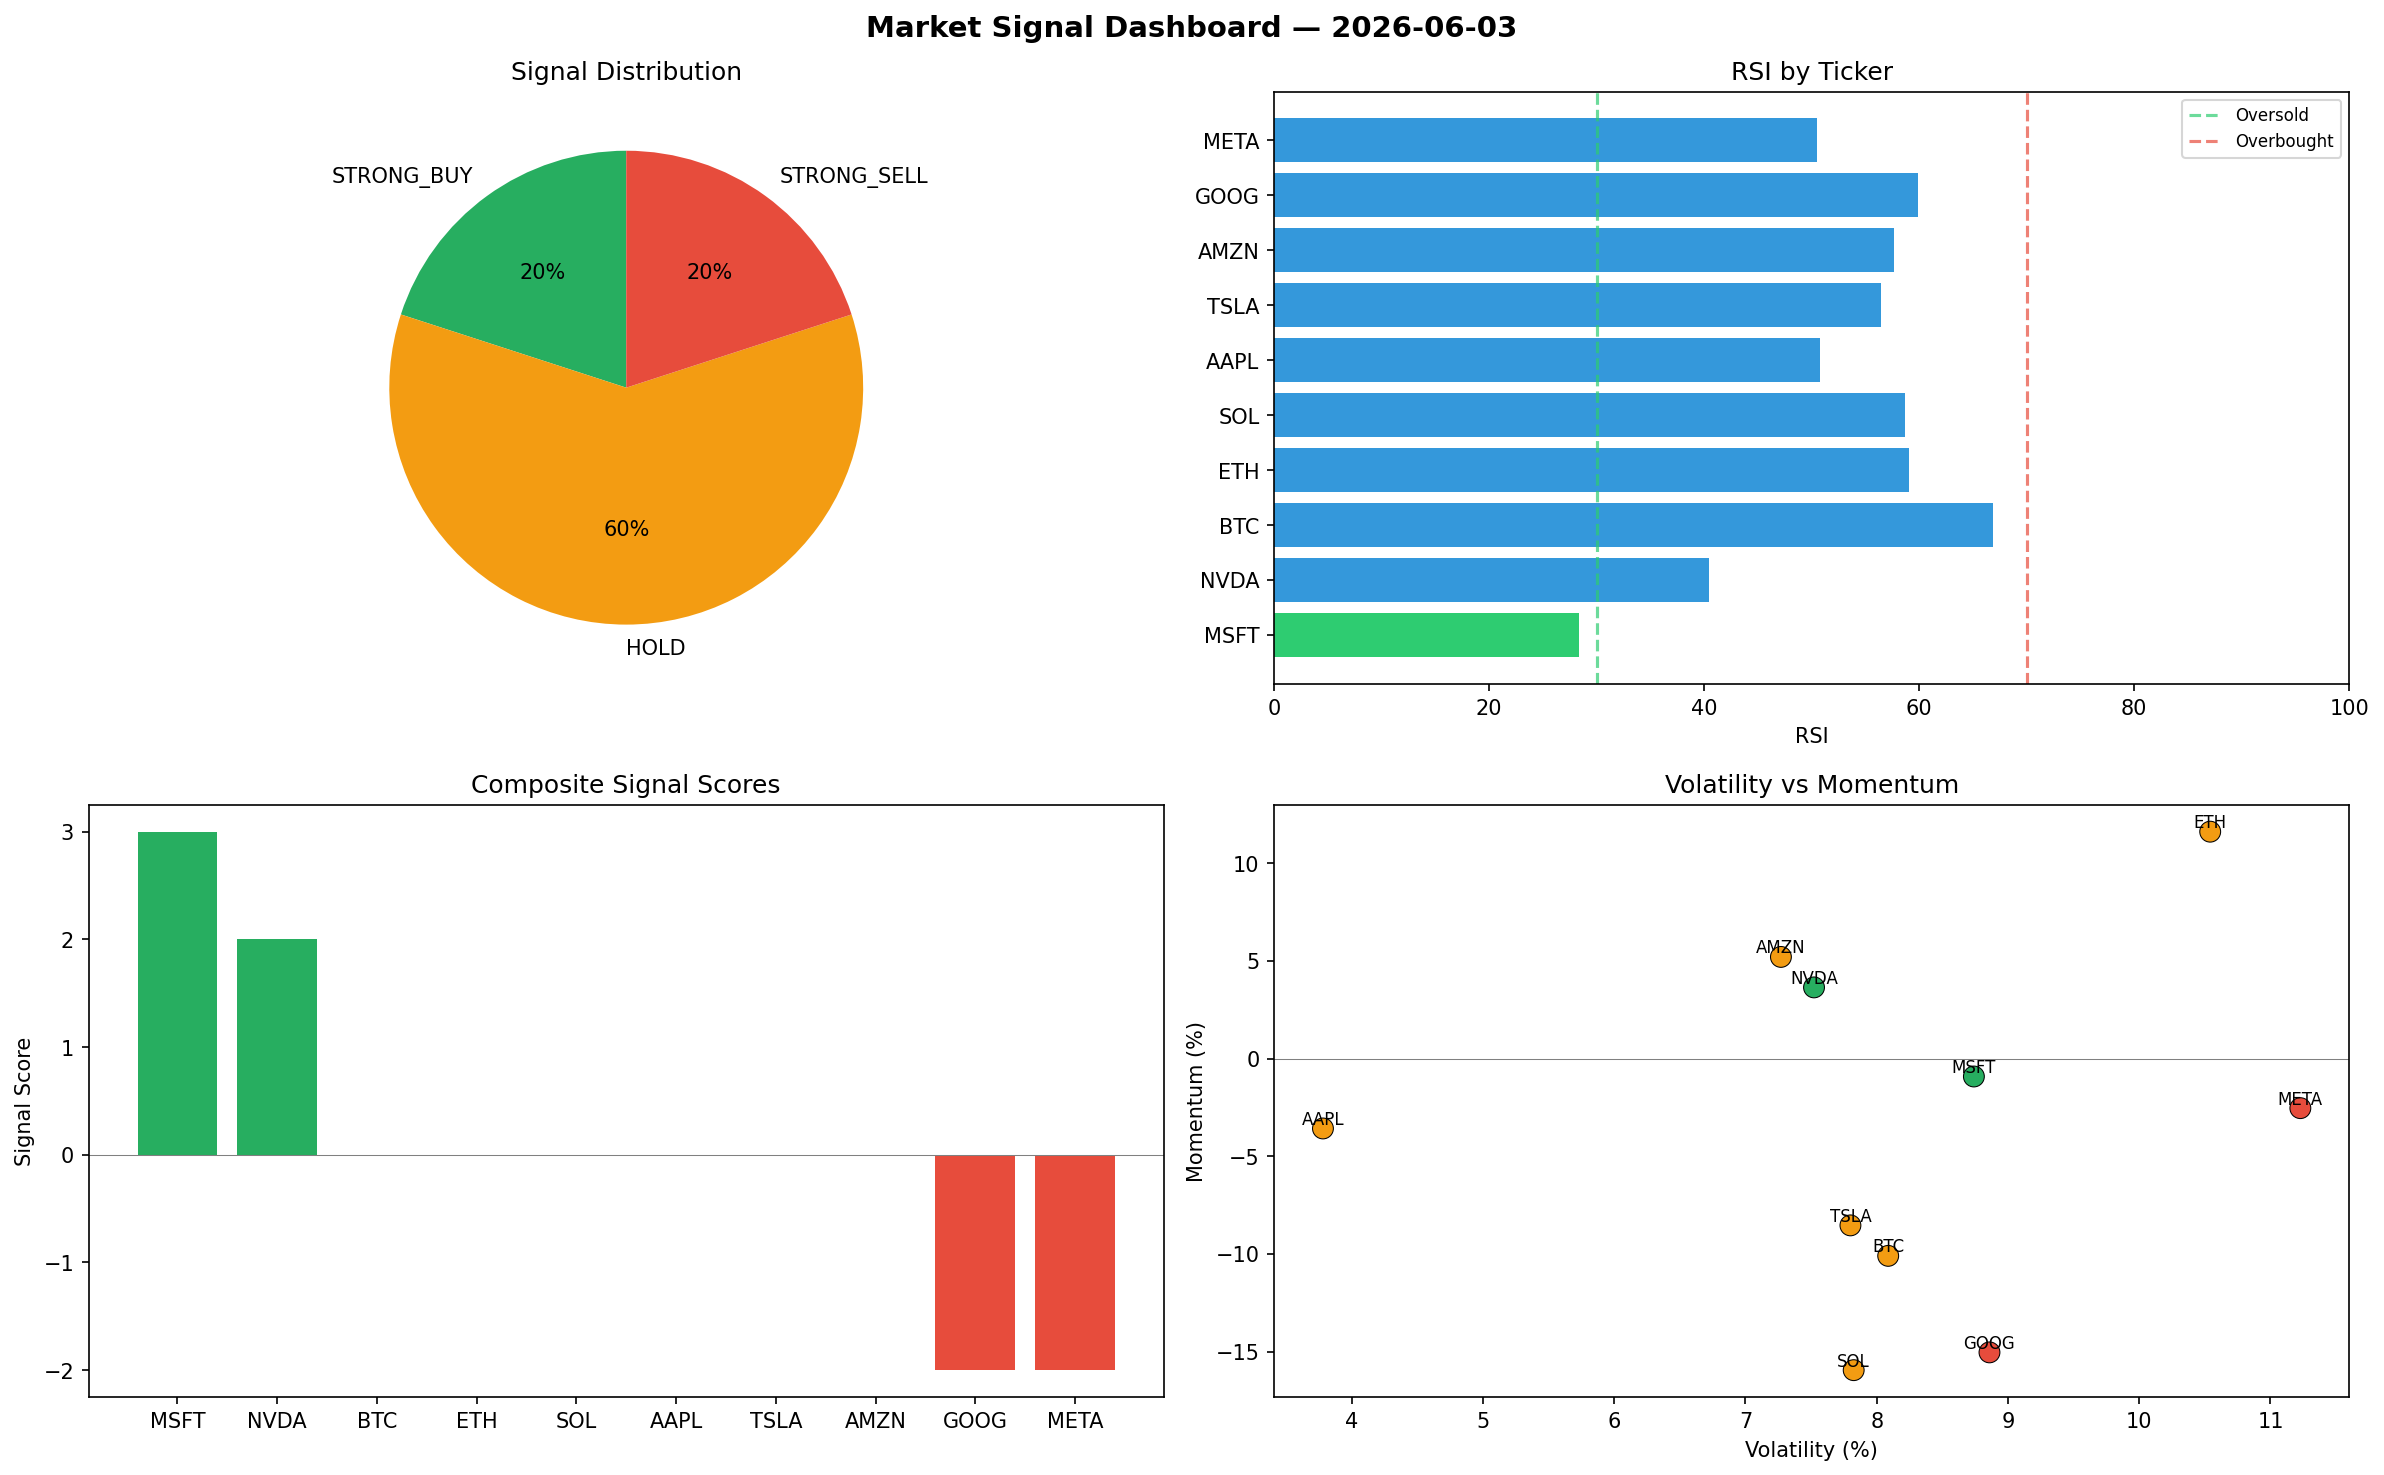
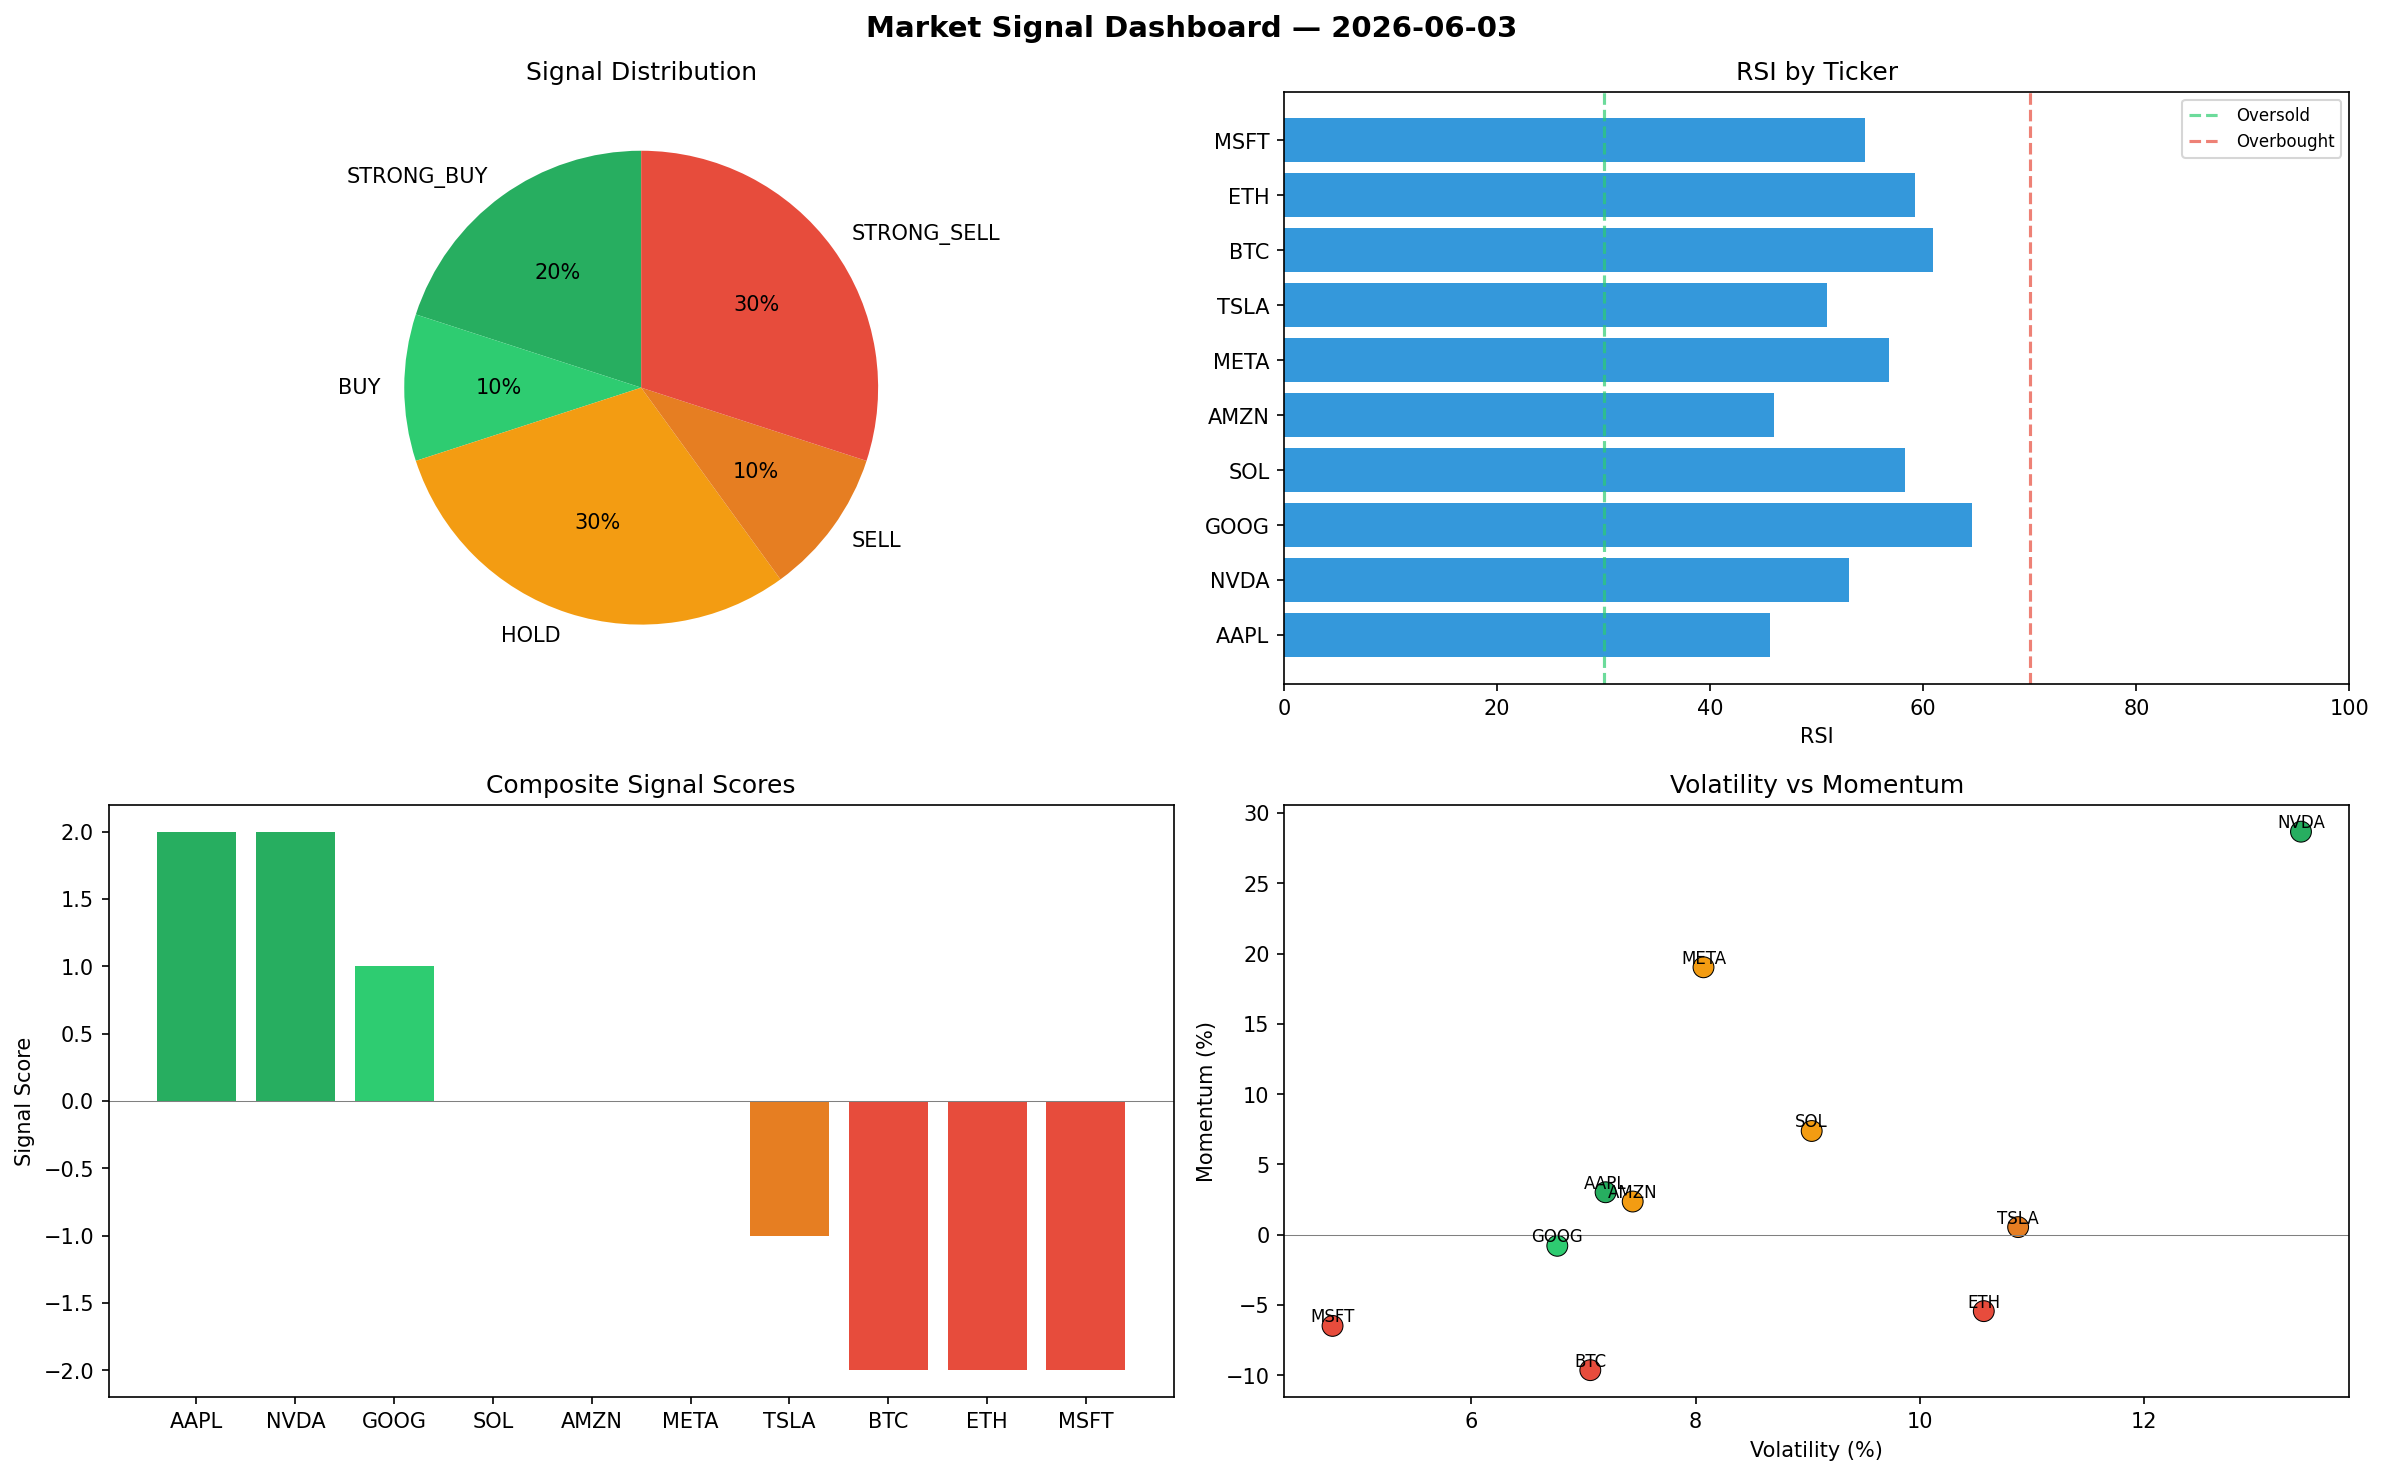
automated-bots: market signals 2026-06-03T18:34

diff --git a/logs/2026-06-03.md b/logs/2026-06-03.md
@@ -1,6 +1,6 @@
 # Market Signal Report — 2026-06-03
 
-**Run ID:** `454609966c` | **Buy:** 2 | **Sell:** 2 | **Hold:** 6
+**Run ID:** `3913455562` | **Buy:** 3 | **Sell:** 4 | **Hold:** 3
 
 ![Dashboard](2026-06-03_dashboard.png)
 
@@ -8,28 +8,28 @@
 
 | Ticker | Price | Signal | Score | RSI | Momentum | Confidence |
 |--------|-------|--------|-------|-----|----------|------------|
-| MSFT | $4322.58 | **STRONG_BUY** | 3 | 28.34 | -0.0092 | 0.75 |
-| NVDA | $4776.68 | **STRONG_BUY** | 2 | 40.49 | 0.0364 | 0.5 |
-| BTC | $2585.48 | **HOLD** | 0 | 66.88 | -0.101 | 0.0 |
-| ETH | $1993.36 | **HOLD** | 0 | 59.09 | 0.1161 | 0.0 |
-| SOL | $2667.71 | **HOLD** | 0 | 58.72 | -0.1595 | 0.0 |
-| AAPL | $2726.48 | **HOLD** | 0 | 50.76 | -0.0358 | 0.0 |
-| TSLA | $3203.43 | **HOLD** | 0 | 56.42 | -0.0854 | 0.0 |
-| AMZN | $2564.76 | **HOLD** | 0 | 57.68 | 0.052 | 0.0 |
-| GOOG | $2789.79 | **STRONG_SELL** | -2 | 59.91 | -0.1504 | 0.5 |
-| META | $681.72 | **STRONG_SELL** | -2 | 50.46 | -0.0254 | 0.5 |
+| AAPL | $2732.86 | **STRONG_BUY** | 2 | 45.63 | 0.0301 | 0.5 |
+| NVDA | $5113.66 | **STRONG_BUY** | 2 | 53.06 | 0.2867 | 0.5 |
+| GOOG | $1448.7 | **BUY** | 1 | 64.59 | -0.008 | 0.25 |
+| SOL | $483.86 | **HOLD** | 0 | 58.25 | 0.0737 | 0.0 |
+| AMZN | $325.79 | **HOLD** | 0 | 46.02 | 0.0235 | 0.0 |
+| META | $4672.72 | **HOLD** | 0 | 56.8 | 0.1902 | 0.0 |
+| TSLA | $3671.65 | **SELL** | -1 | 50.94 | 0.0053 | 0.25 |
+| BTC | $3702.91 | **STRONG_SELL** | -2 | 60.9 | -0.0965 | 0.5 |
+| ETH | $4729.03 | **STRONG_SELL** | -2 | 59.2 | -0.0545 | 0.5 |
+| MSFT | $3525.39 | **STRONG_SELL** | -2 | 54.54 | -0.065 | 0.5 |
 
 ## Delta vs Yesterday
 
 | Ticker | Today | Yesterday | Price Change | Signal Changed |
 |--------|-------|-----------|-------------|----------------|
-| MSFT | STRONG_BUY | HOLD | 📉 -3.7% | ⚠ YES |
-| NVDA | STRONG_BUY | STRONG_SELL | 📈 125.0% | ⚠ YES |
-| BTC | HOLD | BUY | 📈 124.63% | ⚠ YES |
-| ETH | HOLD | STRONG_BUY | 📈 452.62% | ⚠ YES |
-| SOL | HOLD | SELL | 📉 -12.96% | ⚠ YES |
-| AAPL | HOLD | HOLD | 📉 -26.45% | — |
-| TSLA | HOLD | SELL | 📉 -16.7% | ⚠ YES |
-| AMZN | HOLD | STRONG_BUY | 📈 323.63% | ⚠ YES |
-| GOOG | STRONG_SELL | STRONG_SELL | 📉 -28.23% | — |
-| META | STRONG_SELL | STRONG_SELL | 📉 -66.39% | — |
+| AAPL | STRONG_BUY | HOLD | 📉 -26.28% | ⚠ YES |
+| NVDA | STRONG_BUY | STRONG_SELL | 📈 140.88% | ⚠ YES |
+| GOOG | BUY | STRONG_SELL | 📉 -62.73% | ⚠ YES |
+| SOL | HOLD | SELL | 📉 -84.21% | ⚠ YES |
+| AMZN | HOLD | STRONG_BUY | 📉 -46.19% | ⚠ YES |
+| META | HOLD | STRONG_SELL | 📈 130.41% | ⚠ YES |
+| TSLA | SELL | SELL | 📉 -4.53% | — |
+| BTC | STRONG_SELL | BUY | 📈 221.72% | ⚠ YES |
+| ETH | STRONG_SELL | STRONG_BUY | 📈 1211.03% | ⚠ YES |
+| MSFT | STRONG_SELL | HOLD | 📉 -21.46% | ⚠ YES |
